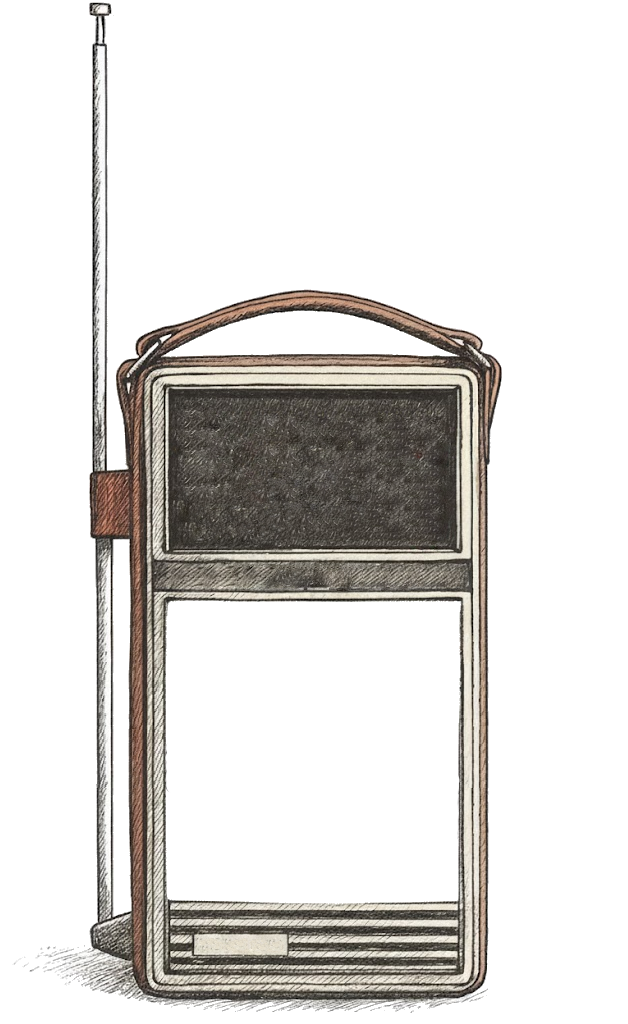
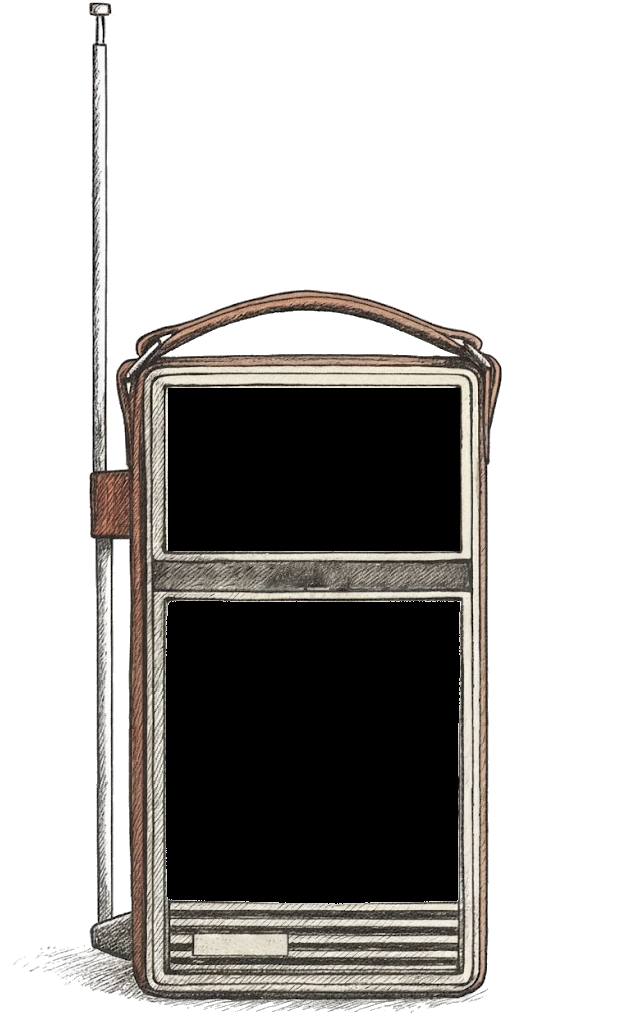
Finished radio

Changed region(s): [[0.242, 0.375, 0.7564, 0.9062]]

diff --git a/src/components/Radio.svelte b/src/components/Radio.svelte
@@ -1,5 +1,7 @@
 <script lang="ts">
 	import { createEventDispatcher } from "svelte";
+	import { fade, scale } from "svelte/transition";
+	import { quintOut } from "svelte/easing";
 
 	export let power = false;
 	export let coverUrl: string | undefined = undefined;
@@ -19,7 +21,17 @@
 	<!-- Cover image area -->
 	<div class="cover-area" class:is-on={power}>
 		{#if power && coverUrl}
-			<img src={coverUrl} alt="Album cover" class="cover-image" />
+			<img
+				src={coverUrl}
+				alt="Album cover"
+				class="cover-image"
+				in:scale={{ duration: 800, opacity: 0, start: 0.2, easing: quintOut }}
+				out:fade={{ duration: 300 }}
+			/>
+		{/if}
+		{#if power}
+			<div class="crt-lines" />
+			<div class="crt-glow" />
 		{/if}
 	</div>
 
@@ -29,9 +41,11 @@
 	<!-- Display area for track info -->
 	<div class="display-area" class:is-on={power}>
 		{#if power}
-			<div class="display row-1">{display1 || ""}</div>
-			<div class="display row-2">{display2 || ""}</div>
-			<div class="display row-3">{display3 || ""}</div>
+			<div class="display row-1" in:fade={{ duration: 1200, delay: 200 }}>{display1 || ""}</div>
+			<div class="display row-2" in:fade={{ duration: 1200, delay: 400 }}>{display2 || ""}</div>
+			<div class="display row-3" in:fade={{ duration: 1200, delay: 600 }}>{display3 || ""}</div>
+			<div class="crt-lines" />
+			<div class="crt-glow" />
 		{/if}
 	</div>
 
@@ -78,12 +92,14 @@
 	.cover-area.is-on {
 		background-color: rgba(0, 0, 0, 0.9);
 		box-shadow: 0 0 10px #00ff00;
+		animation: crt-turn-on 0.8s cubic-bezier(0.68, -0.55, 0.265, 1.55) forwards;
 	}
 
 	.cover-image {
 		width: 100%;
 		height: 100%;
 		object-fit: cover;
+		animation: crt-flicker 0.15s infinite;
 	}
 
 	.cover-placeholder {
@@ -109,6 +125,7 @@
 	.display-area.is-on {
 		background-color: rgba(0, 0, 0, 0.9);
 		box-shadow: 0 0 10px #00ff00;
+		animation: crt-turn-on 0.6s cubic-bezier(0.68, -0.55, 0.265, 1.55) forwards;
 	}
 
 	.display {
@@ -117,6 +134,8 @@
 		text-overflow: ellipsis;
 		opacity: 0.8;
 		font-weight: bold;
+		text-shadow: 0 0 3px #00ff00;
+		animation: crt-text-glow 2s ease-in-out infinite alternate;
 	}
 	.display.row-1 {
 		font-size: 0.875rem;
@@ -164,6 +183,115 @@
 
 	.power-button.active:hover {
 		box-shadow: 0 0 20px rgba(255, 51, 51, 0.5);
+	}
+
+	/* CRT Effects */
+	.crt-lines {
+		position: absolute;
+		top: 0;
+		left: 0;
+		width: 100%;
+		height: 100%;
+		pointer-events: none;
+		background: linear-gradient(to bottom, rgba(255, 255, 255, 0) 50%, rgba(0, 255, 0, 0.02) 50%);
+		background-size: 100% 4px;
+		animation: crt-scanlines 8s linear infinite;
+		z-index: 2;
+	}
+
+	.crt-glow {
+		position: absolute;
+		top: 0;
+		left: 0;
+		width: 100%;
+		height: 100%;
+		pointer-events: none;
+		background: radial-gradient(
+			ellipse at center,
+			rgba(0, 255, 0, 0.1) 0%,
+			rgba(0, 255, 0, 0.05) 40%,
+			transparent 70%
+		);
+		animation: crt-pulse 4s ease-in-out infinite;
+		z-index: 1;
+	}
+
+	/* Keyframe animations */
+	@keyframes crt-turn-on {
+		0% {
+			transform: scaleY(0.01) scaleX(1);
+			filter: brightness(30);
+		}
+		10% {
+			transform: scaleY(0.01) scaleX(0.8);
+		}
+		20% {
+			transform: scaleY(0.2) scaleX(1.2);
+			filter: brightness(10);
+		}
+		40% {
+			transform: scaleY(1) scaleX(1.1);
+			filter: brightness(4);
+		}
+		60% {
+			transform: scaleY(1) scaleX(1.05);
+			filter: brightness(2);
+		}
+		80% {
+			transform: scaleY(1) scaleX(1.02);
+			filter: brightness(1.2);
+		}
+		100% {
+			transform: scaleY(1) scaleX(1);
+			filter: brightness(1);
+		}
+	}
+
+	@keyframes crt-scanlines {
+		0% {
+			transform: translateY(0);
+		}
+		100% {
+			transform: translateY(10px);
+		}
+	}
+
+	@keyframes crt-flicker {
+		0% {
+			opacity: 1;
+		}
+		50% {
+			opacity: 0.98;
+		}
+		100% {
+			opacity: 1;
+		}
+	}
+
+	@keyframes crt-text-glow {
+		0% {
+			text-shadow:
+				0 0 3px #00ff00,
+				0 0 5px #00ff00;
+			opacity: 0.8;
+		}
+		100% {
+			text-shadow:
+				0 0 4px #00ff00,
+				0 0 8px #00ff00,
+				0 0 12px rgba(0, 255, 0, 0.5);
+			opacity: 0.9;
+		}
+	}
+
+	@keyframes crt-pulse {
+		0%,
+		100% {
+			opacity: 1;
+		}
+		50% {
+			opacity: 0.8;
+		}
 	}
 
 	/* Responsive adjustments for smaller text */

diff --git a/src/routes/Player.svelte b/src/routes/Player.svelte
@@ -10,12 +10,16 @@
 		notifyTrackFinished,
 	} from "@/api/broadcast";
 	import { onMount, onDestroy } from "svelte";
+	import { fly } from "svelte/transition";
 
 	// Player state
 	let audioElement: HTMLAudioElement;
 	let instructions = "Tryck på strömknappen för att börja lyssna";
 	let currentTrackId: string | null = null;
 	let powerOn = false;
+
+	// Footer element reference
+	let footerElement: HTMLElement;
 
 	// Handle track changes while playing
 	$: if ($currentlyPlayingMedium && audioElement && $isPlaying) {
@@ -83,9 +87,9 @@
 
 				// Update instructions
 				if ($currentlyPlayingMedium.isWhiteNoise) {
-					instructions = "Inget program just nu - spelar vitt brus";
+					instructions = "Ingen sändning just nu";
 				} else {
-					instructions = `Nu spelar: ${$currentlyPlayingMedium.recording.title}`;
+					instructions = "";
 				}
 			}
 		} else {
@@ -122,6 +126,14 @@
 			audioElement.addEventListener("ended", handleTrackEnded);
 			audioElement.addEventListener("error", handleAudioError);
 		}
+
+		// Scroll footer to bottom smoothly
+		if (footerElement) {
+			footerElement.scrollTo({
+				top: footerElement.scrollHeight,
+				behavior: "smooth",
+			});
+		}
 	});
 
 	// Cleanup
@@ -141,7 +153,7 @@
 <!-- Hidden audio element -->
 <audio bind:this={audioElement} />
 
-<footer class="has-text-centered is-flex-align-items-flex-end mt-auto">
+<footer bind:this={footerElement} class="has-text-centered is-flex-align-items-flex-end mt-auto">
 	<Radio
 		bind:power={powerOn}
 		on:power={(e) => togglePlayback(e.detail)}
@@ -150,9 +162,11 @@
 		display2={$currentlyPlayingMedium?.recording.author}
 		display3={$nextRecording ? `Nästa: ${$nextRecording.title}` : ""}
 	/>
-	<div class="instructions">
-		{instructions}
-	</div>
+	{#if instructions}
+		<div class="instructions" transition:fly>
+			{instructions}
+		</div>
+	{/if}
 
 	<!-- Debug area for admins -->
 	{#if $isAdmin}
@@ -167,6 +181,8 @@
 		left: 0;
 		bottom: 0;
 		width: 100%;
+		max-height: 100vh;
+		overflow-y: auto;
 	}
 
 	/* Instructions area */

diff --git a/src/api/broadcast.ts b/src/api/broadcast.ts
@@ -5,6 +5,8 @@ import { readable, derived, writable, get } from "svelte/store";
 import { effectiveDateTime } from "./datetime";
 import { supabase } from "./supabase";
 
+const DEFAULT_COVER_URL = "/default-cover.jpg";
+
 /**
  * Recording item with scheduling information
  */
@@ -105,6 +107,7 @@ function createBroadcastScheduleStore(): Readable<PlayableBroadcast> {
 						// Parse recordings with calculated dates
 						const { recordings, endTime } = await _parseRecordings(
 							data.recordings as Array<string>,
+							data,
 							startTime
 						);
 
@@ -261,6 +264,13 @@ function createCurrentlyPlayingMedium(): Readable<CurrentlyPlaying> {
 							});
 							console.log("[CurrentlyPlaying] Moved to next track:", nextRec.title);
 							return;
+						} else if (currentIndex === schedule.recordings.length - 1) {
+							// This was the last track - emit end event and continue to white noise
+							console.log("[CurrentlyPlaying] Last track finished, transitioning to white noise");
+							if (currentlyPlayingRecording) {
+								_eventEmitter.emit("recordingEnd", currentlyPlayingRecording);
+							}
+							// Don't return - let it fall through to the normal update logic
 						}
 					}
 				}
@@ -412,6 +422,7 @@ export const currentlyPlayingMedium = createCurrentlyPlayingMedium();
  */
 async function _parseRecordings(
 	recordingsIds: Array<string>,
+	program: BroadcastProgram,
 	startTime: Date
 ): Promise<{ endTime: Date; recordings: Array<PlayableRecording> }> {
 	try {
@@ -450,7 +461,7 @@ async function _parseRecordings(
 					author: recording.author || "",
 					duration: Number(recording.duration) || 0,
 					audioUrl: String(recording.file_url || ""),
-					coverUrl: recording.cover_url || "",
+					coverUrl: recording.cover_url || program.cover_url || DEFAULT_COVER_URL,
 					startTime,
 					endTime,
 				});
